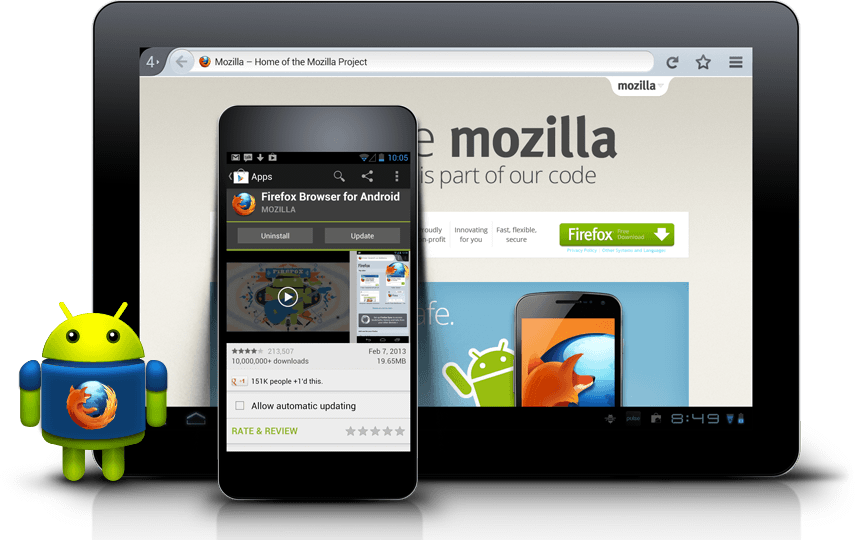
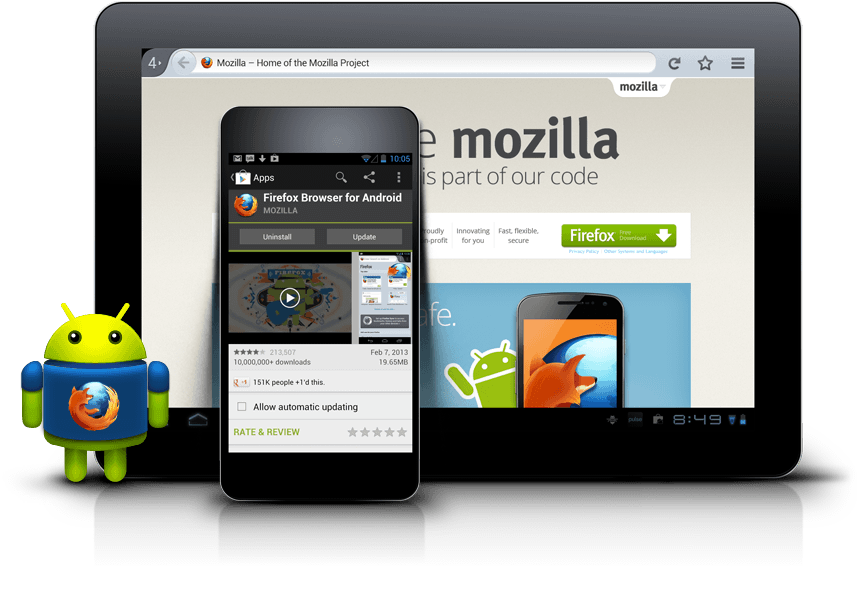
Minor presentation tweaks on /fx and /mobile/features
Fixed gap under tablet image on /fx
Removed left border on first sub-item
Some spacing adjustments on mobile features

diff --git a/media/css/firefox/fx.less b/media/css/firefox/fx.less
@@ -166,6 +166,11 @@
         vertical-align: top;
         background: url(/media/img/firefox/fx/android-four-stars.png) center top no-repeat;
     }
+    .sub-features {
+        margin-top: -50px;
+        background-color: #fafafa;
+        position: relative;
+    }
 }
 
 .sub-features {
@@ -216,6 +221,7 @@
         }
     }
     li:first-child a.link,
+    li:first-child a.mobile-link,
     li:first-child span.link,
     li:first-child .wrap {
         border-left: 0;
@@ -334,6 +340,7 @@
     .sub-features,
     .mobile-content .sub-features {
         width: auto;
+        margin-top: 0;
         li {
             
             float: none;

diff --git a/media/css/firefox/mobile-features.less b/media/css/firefox/mobile-features.less
@@ -82,10 +82,10 @@
 
 #get {
     display: block;
-    padding: 10px 0 0 @gridColumnWidth;
+    padding: 25px 0 0 @gridColumnWidth;
     float: left;
     border-top: 1px dotted @borderColor;
-    background: 7px 10px url(/media/img/firefox/mobile/android.png) no-repeat;
+    background: 7px 20px url(/media/img/firefox/mobile/android.png) no-repeat;
 }
 
 a.more:after,
